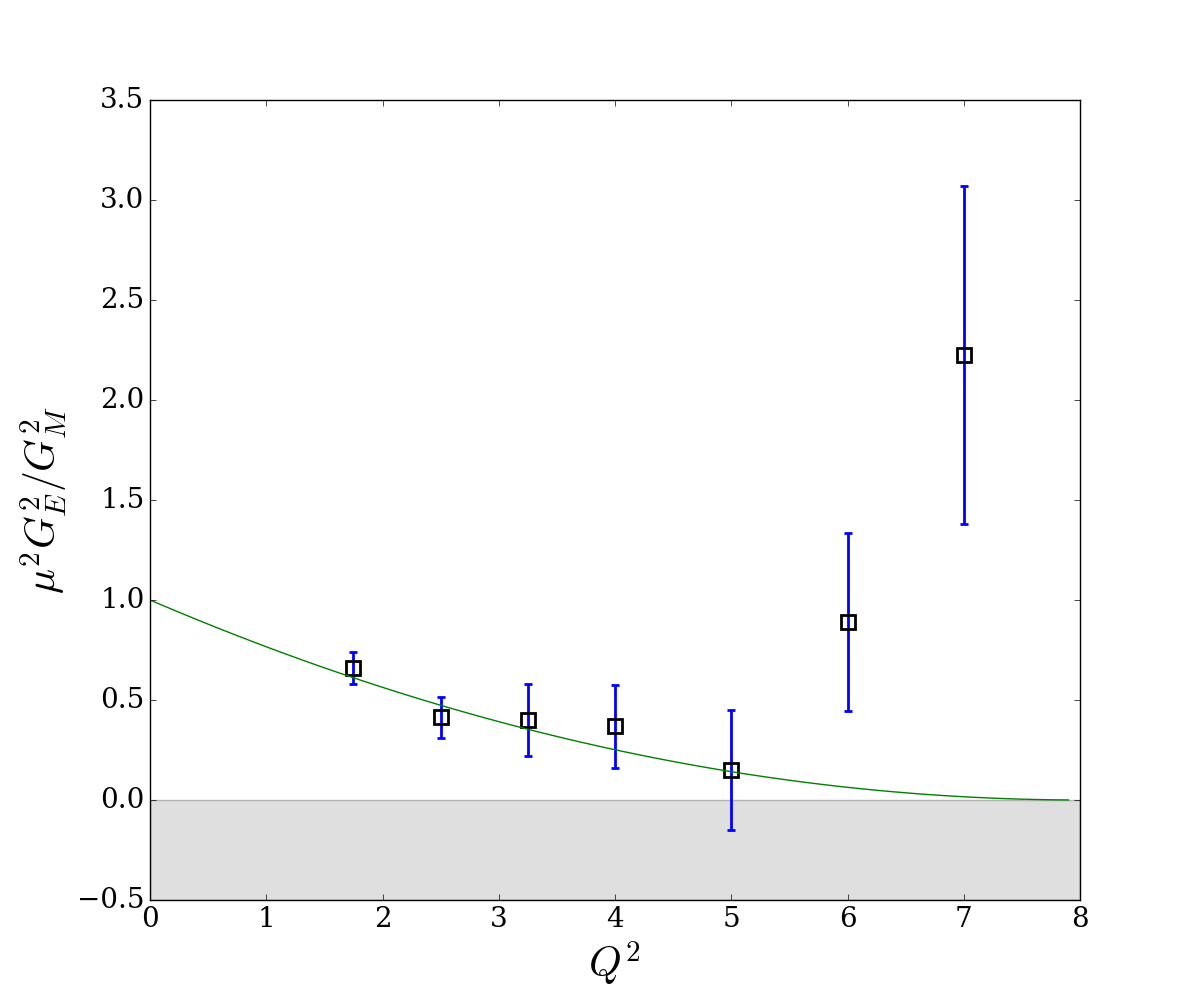
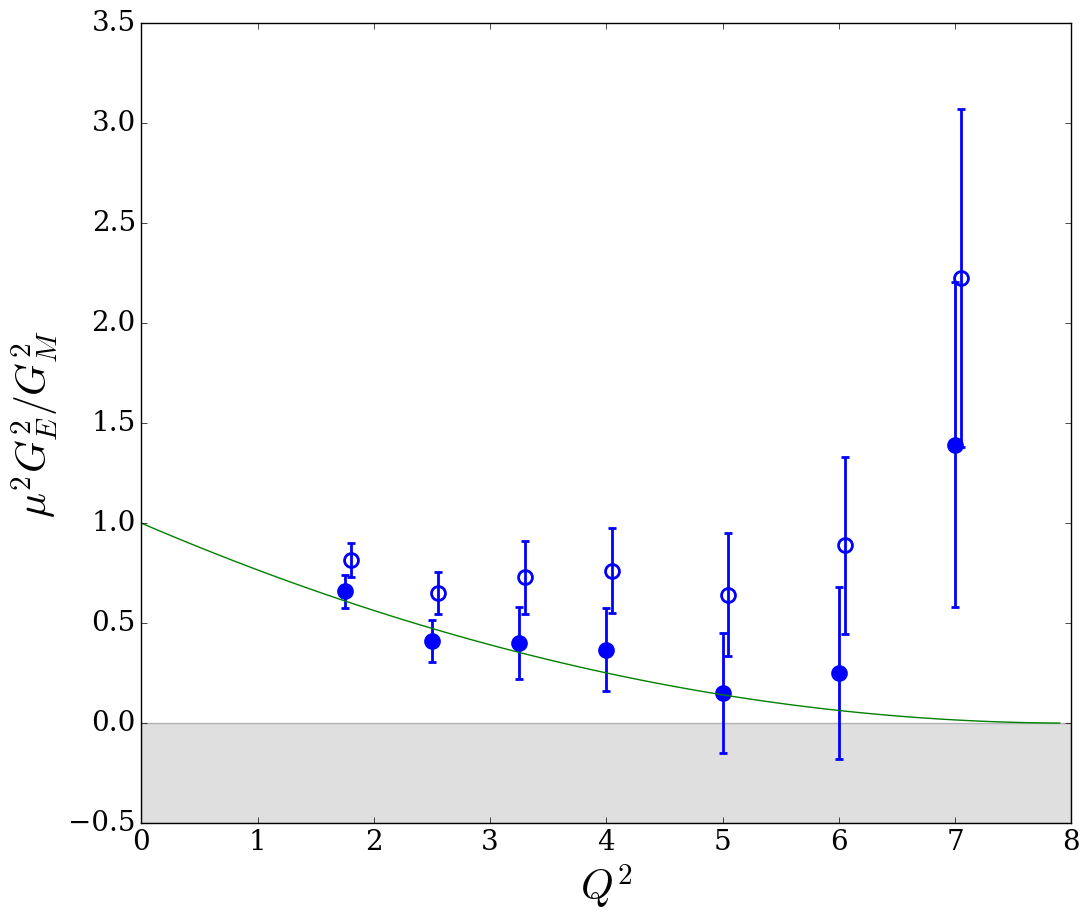
[ADD] Updated and restyled form factor ratio plots

diff --git a/ff_plot.py b/ff_plot.py
@@ -26,6 +26,19 @@ def marker():
 		for s in syms:
 			yield s
 
+def color():
+
+	""" Cycles through colors to use when plotting the form factors
+
+	Yields:
+		c 		(string) - The matplotlib identifier for the next color to use
+
+	"""
+	colors = ['b', 'r', 'g', 'k']
+	while True:
+		for c in colors:
+			yield c
+
 def error(ff2, error2):
 
 	""" Calculates the error associated with the form factor given the form factor squared and its error
@@ -82,28 +95,45 @@ if len(sys.argv) > 1:
 	rc('font',**{'family':'serif'})
 
 	# plot G_E/G_D
-	plt.figure(figsize=(12,10))
+	plt.figure(figsize=(6,5))
 	ax = plt.subplot(111)
 	ax.set_xlabel(r'$Q^2$', fontsize=30)
 	ax.set_ylabel(r'$G_E^2/G_{SD}^2$', fontsize=30)
 	ax.set_xlim([0,8.0])
 	plt.xticks(fontsize=20)
 	plt.yticks(fontsize=20)
-	mark = marker()
+	# mark = marker()
+	c = color()
+	fill = True
+	c1 = next(c)
 	for i in range(len(q2)):
-		plt.errorbar([j+i/20 for j in q2[i]], ge[i], yerr=ge_error[i], fmt=next(mark), elinewidth=2, markersize=10, markerfacecolor="None", markeredgewidth=2)
-	
+		# c1 = next(c)
+		if fill:
+			plt.errorbar([j+i/20 for j in q2[i]], ge[i], yerr=ge_error[i], fmt='o', elinewidth=2, markersize=10, ecolor=c1, markerfacecolor=c1, markeredgecolor=c1, markeredgewidth=2, label="RC")
+		else:
+			plt.errorbar([j+i/20 for j in q2[i]], ge[i], yerr=ge_error[i], fmt='o', elinewidth=2, markersize=10, ecolor=c1, markerfacecolor='none', markeredgecolor=c1, markeredgewidth=2, label='No RC')
+		fill = not fill
+
 	# plot a fit line where G_E = (1+x/0.662)^{-2} and G_D = (1+x/0.71)^{-2}
 	x = arange(0., 8., 0.1)
 	y = (1+x/0.662)**-4 / (1+x/0.71)**-4
-	plt.plot(x, y)
+	plt.plot(x, y, '-g', label='Carlson-Griffioen')
+
+	# add a legend
+	if len(files) > 1:
+		handles, labels = ax.get_legend_handles_labels()
+		# handles.append(fit_curve)
+		print(handles, labels)
+		# handles = [h[0] for h in handles[0]]
+		ax.legend(handles, labels, loc='upper left', numpoints=1, fontsize=20)
 
 	# shade unphysical region
+	ax.set_ylim(-0.5, ax.get_ylim()[1])
 	if ax.get_ylim()[0] < 0:
 		plt.axhspan(ax.get_ylim()[0], 0, facecolor='gray', alpha=0.25)
 	
 	file_names = [i.split("+")[1][:-4] for i in files]
-	plt.savefig("Figures/ge-gd-" + "&".join(file_names) + ".png", bbox_inches="tight")
+	plt.savefig("Figures/Form_Factors/ge-gd-" + "&".join(file_names) + ".png", bbox_inches="tight")
 	# plt.show()
 
 	# plot G_M/mu G_D
@@ -115,20 +145,28 @@ if len(sys.argv) > 1:
 	plt.xticks(fontsize=20)
 	plt.yticks(fontsize=20)
 	mark = marker()
+	c = color()
+	fill = True
+	c1 = next(c)
 	for i in range(len(q2)):
-		plt.errorbar([j+i/20 for j in q2[i]], [gm[i][j]/pmm**2 for j in range(len(gm[i]))], yerr=[gm_error[i][j]/pmm**2 for j in range(len(gm_error[i]))], fmt=next(mark), elinewidth=2, markersize=10, markerfacecolor="None", markeredgewidth=2)
+		# c1 = next(c)
+		if fill:
+			plt.errorbar([j+i/20 for j in q2[i]], [gm[i][j]/pmm**2 for j in range(len(gm[i]))], yerr=[gm_error[i][j]/pmm**2 for j in range(len(gm_error[i]))], fmt='o', elinewidth=2, markersize=10, ecolor=c1, markerfacecolor=c1, markeredgecolor=c1, markeredgewidth=2)
+		else:
+			plt.errorbar([j+i/20 for j in q2[i]], [gm[i][j]/pmm**2 for j in range(len(gm[i]))], yerr=[gm_error[i][j]/pmm**2 for j in range(len(gm_error[i]))], fmt='o', elinewidth=2, markersize=10, ecolor=c1, markerfacecolor='none', markeredgecolor=c1, markeredgewidth=2)
+		fill=not fill
 
 	# plot a fit line where G_M = mu
 	x = arange(0., 8., 0.1)
 	y = [1.0]*len(x)
-	plt.plot(x, y)
+	plt.plot(x, y, '-g')
 
 	# shade unphysical region
 	if ax.get_ylim()[0] < 0:
 		plt.axhspan(ax.get_ylim()[0], 0, facecolor='gray', alpha=0.25)
 
 	file_names = [i.split("+")[1][:-4] for i in files]
-	plt.savefig("Figures/gm-gd-" + "&".join(file_names) + ".png", bbox_inches="tight")
+	plt.savefig("Figures/Form_Factors/gm-gd-" + "&".join(file_names) + ".png", bbox_inches="tight")
 	# plt.show()
 
 	# plot mu G_E/G_M
@@ -140,22 +178,29 @@ if len(sys.argv) > 1:
 	plt.xticks(fontsize=20)
 	plt.yticks(fontsize=20)
 	mark = marker()
+	c = color()
+	c1 = next(c)
+	fill = True
 	for i in range(len(q2)):
+		# c1 = next(c)
 		# recalculate error for a product/ratio of variables (see http://www.utm.edu/staff/cerkal/Lect4.html)
 		ratio_err = [pmm**2*ge[i][j]/gm[i][j] * ((ge_error[i][j]/ge[i][j])**2 + (gm_error[i][j]/gm[i][j])**2)**0.5 for j in range(len(ge[i]))]
-
-		plt.errorbar([j+i/20 for j in q2[i]], [pmm**2*ge[i][j]/gm[i][j] for j in range(len(ge[i]))], yerr=ratio_err, fmt=next(mark), elinewidth=2, markersize=10, markerfacecolor="None", markeredgewidth=2)
+		if fill:
+			plt.errorbar([j+i/20 for j in q2[i]], [pmm**2*ge[i][j]/gm[i][j] for j in range(len(ge[i]))], yerr=ratio_err, fmt='o', elinewidth=2, markersize=10, ecolor=c1, markerfacecolor=c1, markeredgecolor=c1, markeredgewidth=2)
+		else:
+			plt.errorbar([j+i/20 for j in q2[i]], [pmm**2*ge[i][j]/gm[i][j] for j in range(len(ge[i]))], yerr=ratio_err, fmt='o', elinewidth=2, markersize=10, ecolor=c1, markerfacecolor='none', markeredgecolor=c1, markeredgewidth=2)
+		fill = not fill
 
 	# plot a fit line where mu G_E/G_M = (1-x/8.02)
 	x = arange(0., 8., 0.1)
 	y = (1-x/8.02)**2
-	plt.plot(x, y)
+	plt.plot(x, y, '-g')
 
 	# shade unphysical region
 	if ax.get_ylim()[0] < 0:
 		plt.axhspan(ax.get_ylim()[0], 0, facecolor='gray', alpha=0.25)
 
 	file_names = [i.split("+")[1][:-4] for i in files]
-	plt.savefig("Figures/ge-gm-" + "&".join(file_names) + ".png", bbox_inches="tight")
+	plt.savefig("Figures/Form_Factors/ge-gm-" + "&".join(file_names) + ".png", bbox_inches="tight")
 	# plt.show()
 	

diff --git a/rosenbluth.py b/rosenbluth.py
@@ -307,14 +307,7 @@ if __name__ == '__main__':
 				# recalculate form factors
 				res = form_factors(eps_samples, red_samples)
 
-				# negative slope of fit becomes 0
-				if res[0] < 0:
-					ge2.append(res[0])
-					pass
-				else:
-					#divide out tau
-					ge2.append(res[0])
-
+				ge2.append(res[0])
 				gm2.append(res[1]/tau)
 
 			# clear the lists from Monte Carlo	
